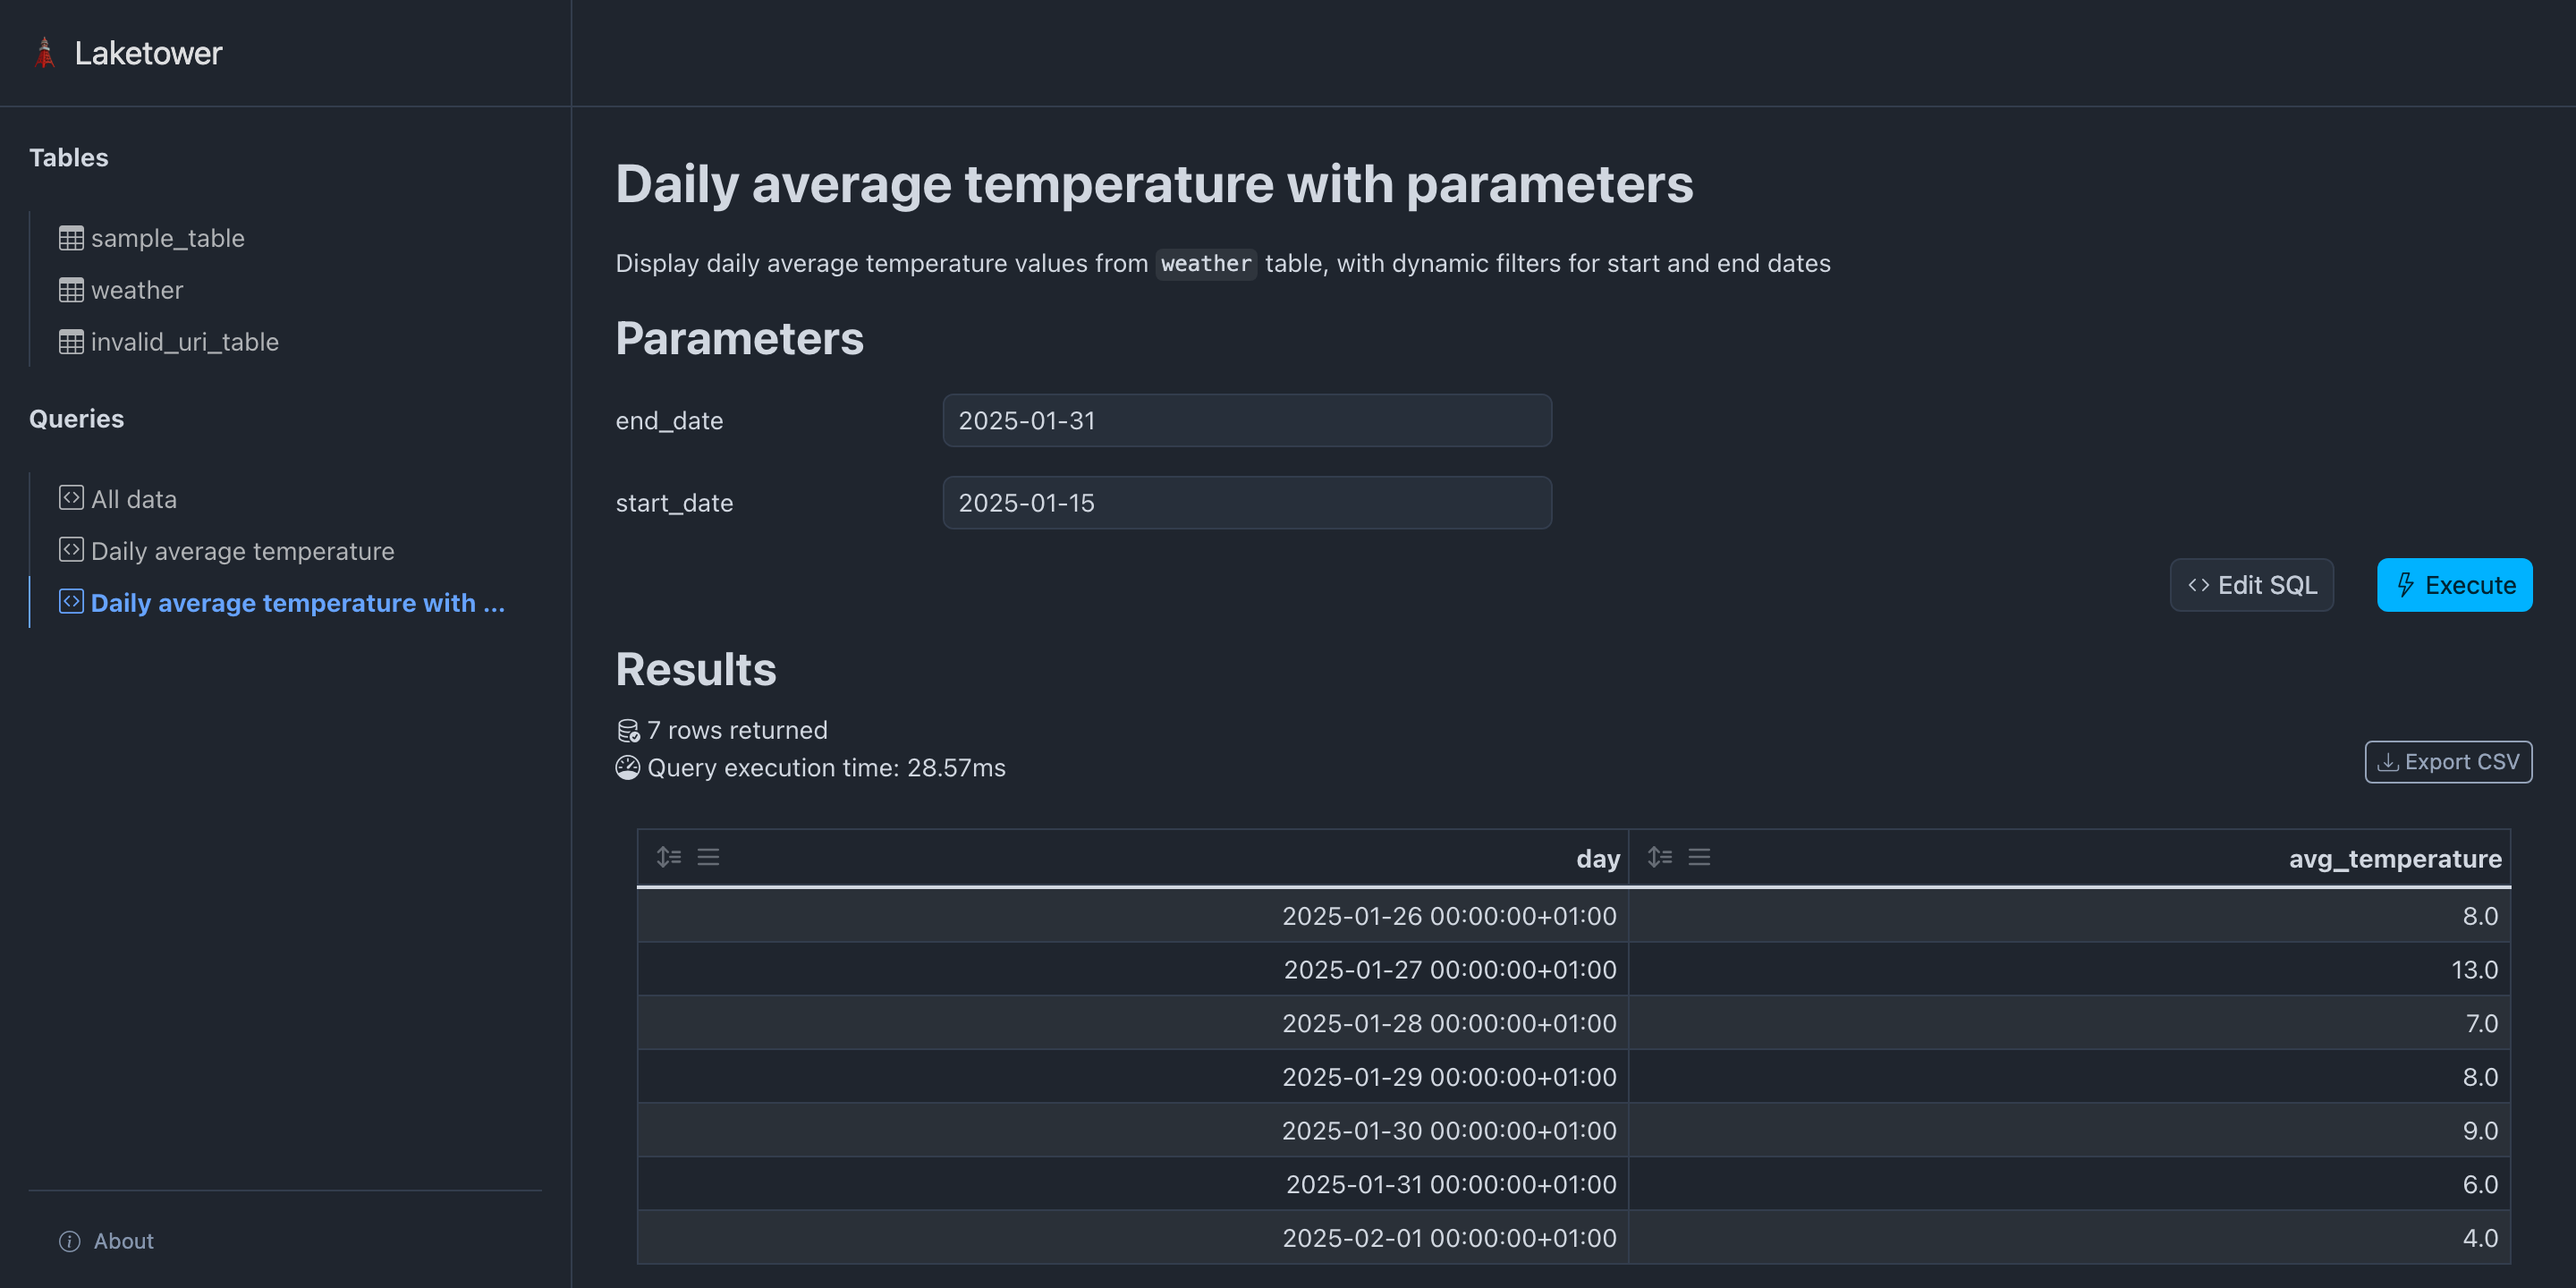
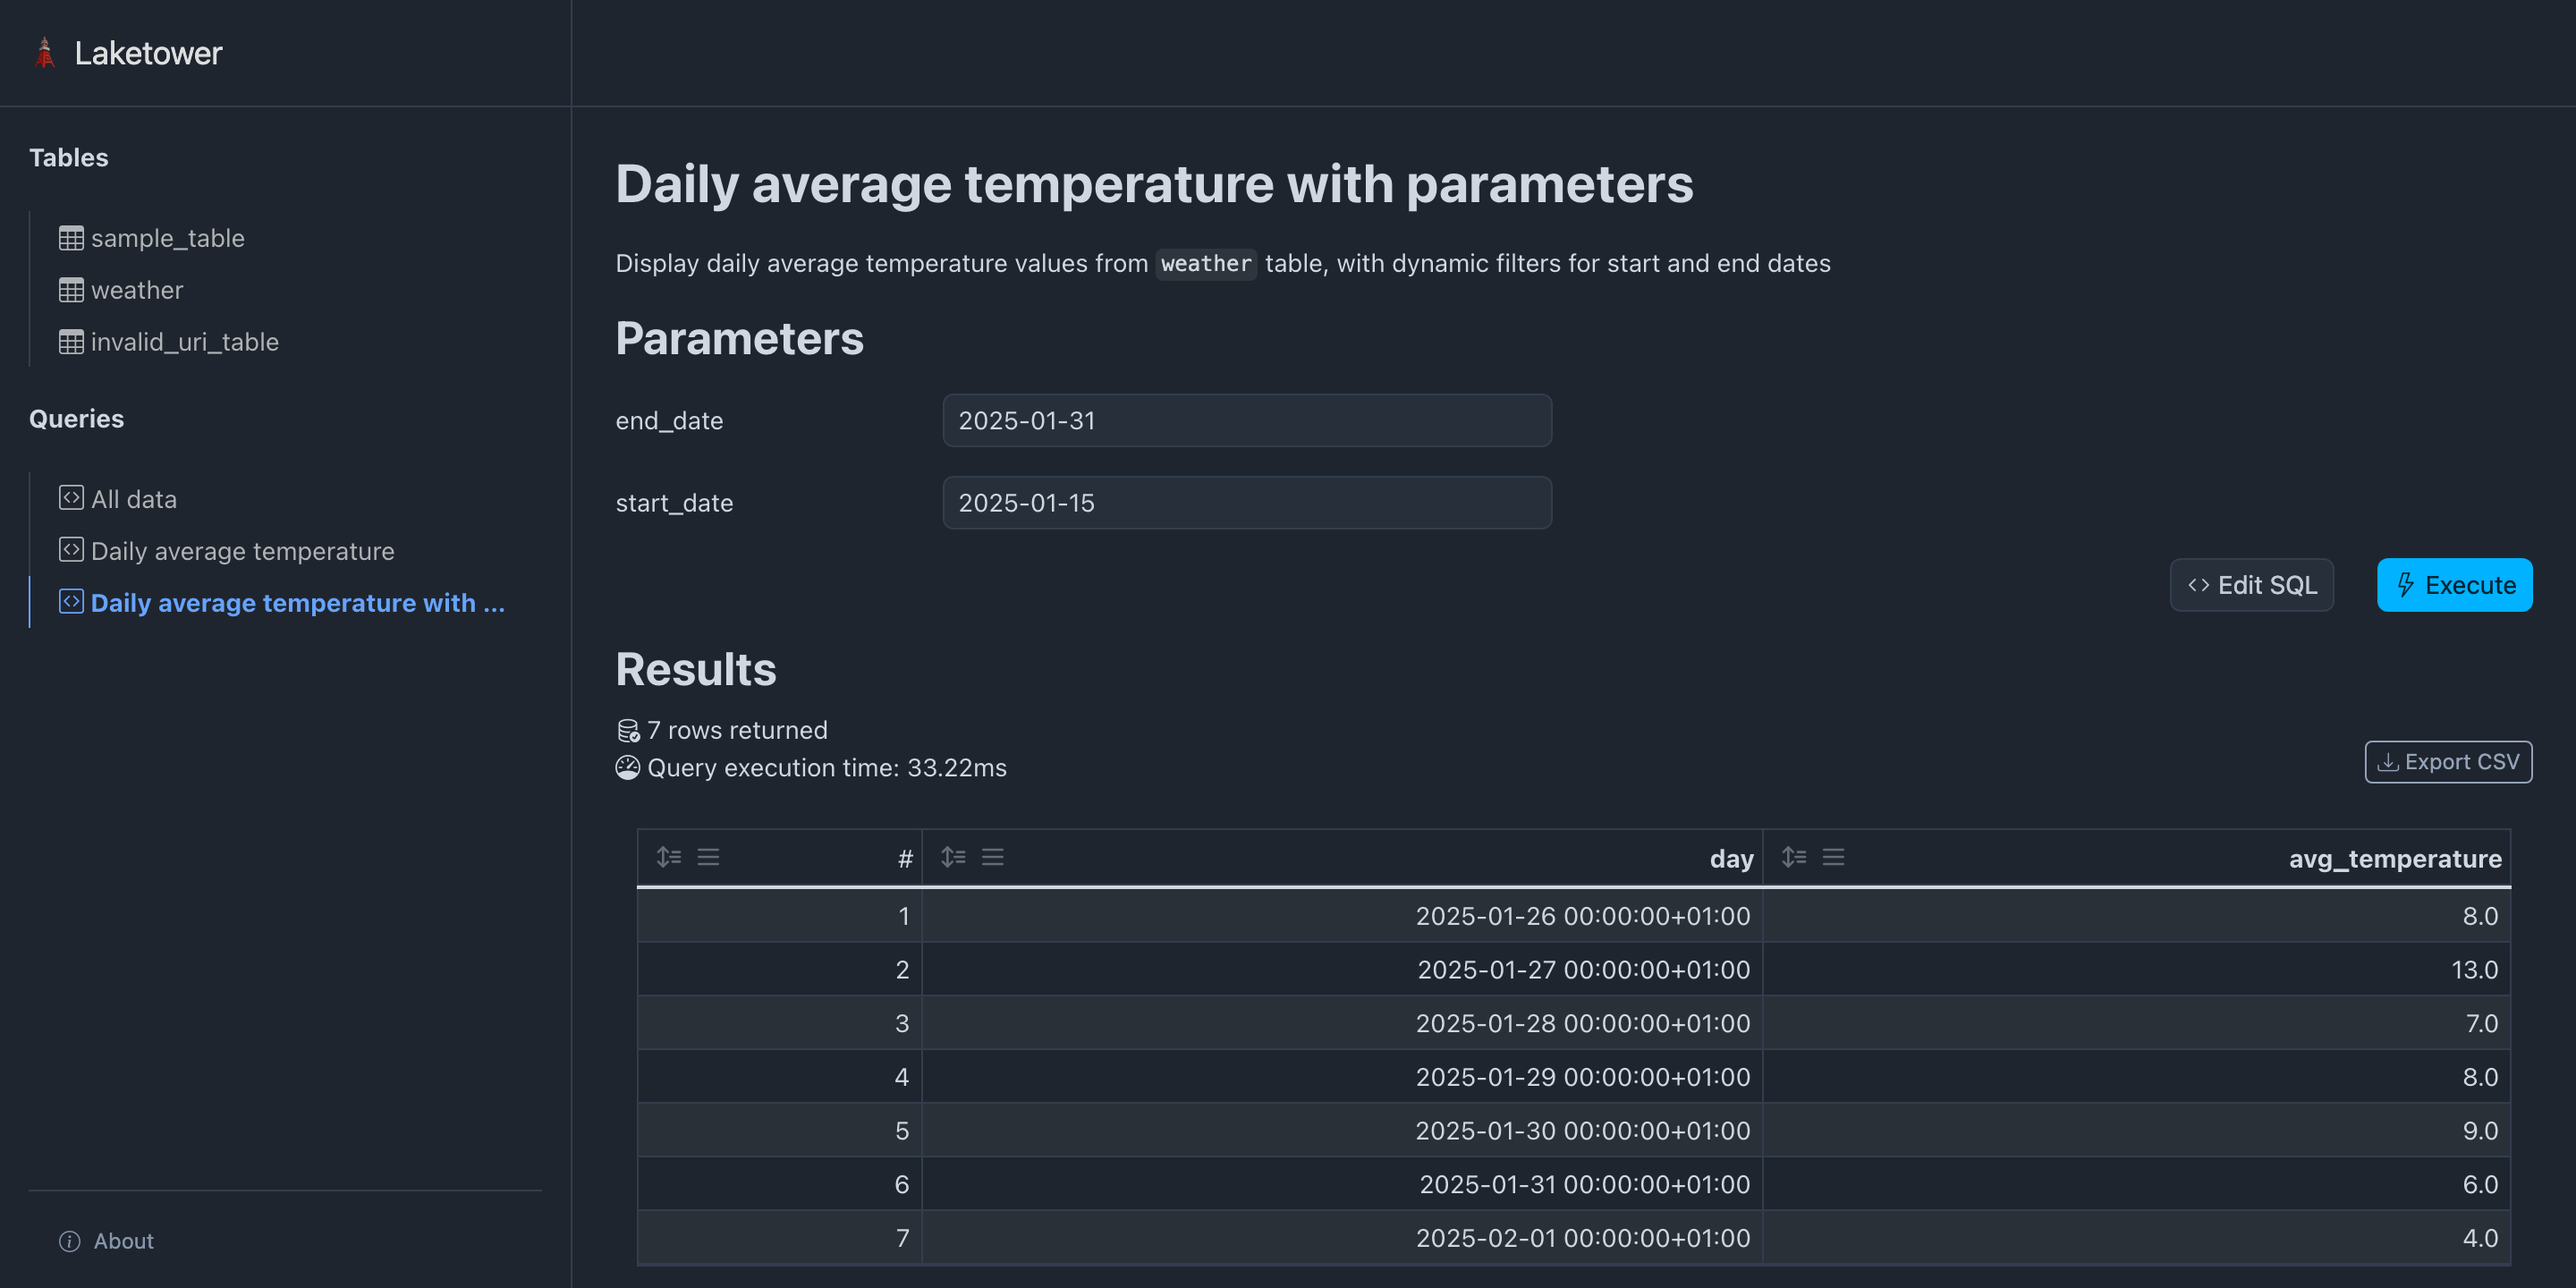
feat: add new `totals_row` query setting in YAML configuration

diff --git a/laketower/templates/queries/view.html b/laketower/templates/queries/view.html
@@ -68,6 +68,7 @@
       <table id="resultsTable" class="table table-sm table-bordered table-striped table-hover">
         <thead>
           <tr>
+            <td>#</td>
             {% for column in query_results.column_names %}
             <th>{{ column }}</th>
             {% endfor %}
@@ -76,12 +77,24 @@
         <tbody class="table-group-divider">
           {% for row in query_results.to_pylist() %}
           <tr>
+            <td>{{ loop.index }}</td>
             {% for column in query_results.column_names %}
             <td>{{ row[column] }}</td>
             {% endfor %}
           </tr>
           {% endfor %}
         </tbody>
+        {% if query_totals %}
+        <tfoot>
+          <tr>
+            <th>Total</th>
+            {% for column_name in query_totals.column_names %}
+            {% set value = query_totals.column(column_name)[0].as_py() %}
+            <th>{% if value is not none %}{{ value }}{% else %}-{% endif %}</th>
+            {% endfor %}
+          </tr>
+        </tfoot>
+        {% endif %}
       </table>
     </div>
     {% endif %}

diff --git a/laketower/static/datatables.js b/laketower/static/datatables.js
@@ -22,7 +22,6 @@ export function createDataTable(tableId, options = {}) {
         tableId,
         {
             searching: true,
-            scrollX: true,
             layout: {
                 topStart: null,
                 topEnd: null,
@@ -49,7 +48,9 @@ export function createDataTable(tableId, options = {}) {
             },
             order: [],
             paging: false,
+            scrollX: true,
             scrollY: '400px',
+            scrollCollapse: true,
         }
     )
 }

diff --git a/laketower/static/datatables.bundle.js b/laketower/static/datatables.bundle.js
@@ -27890,7 +27890,6 @@ var datatables = (function (exports) {
 	        tableId,
 	        {
 	            searching: true,
-	            scrollX: true,
 	            layout: {
 	                topStart: null,
 	                topEnd: null,
@@ -27917,7 +27916,9 @@ var datatables = (function (exports) {
 	            },
 	            order: [],
 	            paging: false,
+	            scrollX: true,
 	            scrollY: '400px',
+	            scrollCollapse: true,
 	        }
 	    )
 	}

diff --git a/laketower/cli.py b/laketower/cli.py
@@ -17,6 +17,7 @@ from laketower.config import load_yaml_config
 from laketower.tables import (
     ImportFileFormatEnum,
     ImportModeEnum,
+    compute_totals,
     execute_query,
     extract_query_parameter_names,
     generate_table_query,
@@ -314,10 +315,24 @@ def view_query(
             caption_justify="left",
             caption_style=rich.style.Style(dim=True),
         )
+        out.add_column("#")
         for column in results.column_names:
             out.add_column(column)
-        for row_dict in results.to_pylist():
-            out.add_row(*[str(row_dict[col]) for col in results.column_names])
+        for idx, row_dict in enumerate(results.to_pylist(), start=1):
+            out.add_row(str(idx), *[str(row_dict[col]) for col in results.column_names])
+
+        if query_config.totals_row:
+            totals = compute_totals(results)
+            totals_dict = totals.to_pylist()[0]
+            out.add_section()
+            out.add_row(
+                "Total",
+                *[
+                    str(totals_dict[col]) if totals_dict[col] is not None else "-"
+                    for col in results.column_names
+                ],
+                style="bold",
+            )
     except ValueError as e:
         out = rich.panel.Panel.fit(f"[red]{e}")
 

diff --git a/laketower/web.py b/laketower/web.py
@@ -20,6 +20,7 @@ from laketower.tables import (
     DEFAULT_LIMIT,
     ImportFileFormatEnum,
     ImportModeEnum,
+    compute_totals,
     execute_query,
     extract_query_parameter_names,
     generate_table_statistics_query,
@@ -420,11 +421,14 @@ def get_query_view(request: Request, query_id: str) -> Response:
         results = results.slice(
             0, min(results.num_rows, config.settings.max_query_rows)
         )
+
+        totals = compute_totals(results) if query_config.totals_row else None
         error = None
     except ValueError as e:
         error = {"message": str(e)}
         results = None
         truncated = False
+        totals = None
         execution_time_ms = None
 
     return templates.TemplateResponse(
@@ -436,6 +440,7 @@ def get_query_view(request: Request, query_id: str) -> Response:
             "queries": config.queries,
             "query": query_config,
             "query_results": results,
+            "query_totals": totals,
             "truncated_results": truncated,
             "execution_time_ms": execution_time_ms,
             "sql_params": sql_params,

diff --git a/laketower/tables.py b/laketower/tables.py
@@ -5,6 +5,7 @@ from typing import Any, BinaryIO, Protocol, TextIO
 import deltalake
 import duckdb
 import pyarrow as pa
+import pyarrow.compute as pc
 import pyarrow.csv as csv
 import pyarrow.dataset as padataset
 import pydantic
@@ -320,6 +321,18 @@ def execute_query(
         return conn.execute(sql_query, parameters=sql_params).fetch_arrow_table()
     except duckdb.Error as e:
         raise ValueError(f"Error: {e}") from e
+
+
+def compute_totals(results: pa.Table) -> pa.RecordBatch:
+    return pa.record_batch(
+        [
+            pa.array([pc.sum(results.column(i))])
+            if pa.types.is_integer(field.type) or pa.types.is_floating(field.type)
+            else pa.array([None], type=field.type)
+            for i, field in enumerate(results.schema)
+        ],
+        schema=results.schema,
+    )
 
 
 def import_file_to_table(

diff --git a/tests/test_web.py b/tests/test_web.py
@@ -843,6 +843,8 @@ def test_queries_view(client: TestClient, sample_config: dict[str, Any]) -> None
     all_th = [th.get_text().strip() for th in soup.find_all("th")]
     assert all(col in all_th for col in {"day", "avg_temperature"})
 
+    assert soup.find("tfoot") is None
+
 
 def test_queries_view_max_row_limit(
     monkeypatch: pytest.MonkeyPatch,
@@ -925,6 +927,11 @@ def test_queries_view_parameters(
         assert soup.find(
             "input", attrs={"name": param_name, "value": param_data["default"]}
         )
+
+    assert (tfoot := soup.find("tfoot"))
+    totals_row = tfoot.find("tr")
+    assert totals_row
+    assert totals_row.find("th", string="Total")  # type: ignore[call-overload]
 
 
 def test_queries_view_invalid(

diff --git a/tests/test_tables.py b/tests/test_tables.py
@@ -1,6 +1,7 @@
 from typing import Any
 from unittest import mock
 
+import pyarrow as pa
 import pytest
 
 from laketower import config, tables
@@ -191,3 +192,14 @@ def test_limit_query(sql_query: str, max_limit: int, expected: str) -> None:
 def test_limit_query_invalid_sql(sql: str) -> None:
     with pytest.raises(ValueError):
         tables.limit_query(sql, 1_000)
+
+
+def test_compute_totals() -> None:
+    data = pa.table({"col1": ["cat1", "cat2", "cat3"], "col2": [1, 2, 3]})
+
+    totals = tables.compute_totals(data)
+
+    assert totals.num_rows == 1
+    assert totals.schema == data.schema
+    assert totals["col1"][0].as_py() is None
+    assert totals["col2"][0].as_py() == 6

diff --git a/tests/conftest.py b/tests/conftest.py
@@ -69,6 +69,7 @@ def sample_config(delta_table: deltalake.DeltaTable) -> dict[str, Any]:
                 "name": "daily_average_temperature_params",
                 "title": "Daily average temperature with parameters",
                 "description": "Display daily average temperature values from `weather` table, with dynamic filters for start and end dates",
+                "totals_row": True,
                 "parameters": {
                     "start_date": {"default": "2025-01-01"},
                     "end_date": {"default": "2025-01-31"},

diff --git a/tests/test_cli.py b/tests/test_cli.py
@@ -913,6 +913,7 @@ def test_queries_view(
     assert " rows returned" in output
     assert "Execution time: " in output
     assert all(col in output for col in {"day", "avg_temperature"})
+    assert "Total" not in output
 
 
 def test_queries_view_max_row_limit(
@@ -1003,6 +1004,7 @@ def test_queries_view_parameters(
     captured = capsys.readouterr()
     output = captured.out
     assert all(col in output for col in {"day", "avg_temperature"})
+    assert "Total" in output
 
 
 def test_queries_view_invalid_sql(

diff --git a/tests/test_config.py b/tests/test_config.py
@@ -30,6 +30,7 @@ def test_load_yaml_config(
         assert query.name == expected_query["name"]
         assert query.title == expected_query["title"]
         assert query.description == expected_query.get("description")
+        assert query.totals_row == expected_query.get("totals_row", False)
         assert query.sql == expected_query["sql"]
 
 

diff --git a/laketower/config.py b/laketower/config.py
@@ -113,6 +113,7 @@ class ConfigQuery(pydantic.BaseModel):
     name: str
     title: str
     description: str | None = None
+    totals_row: bool = False
     parameters: dict[str, ConfigQueryParameter] = {}
     sql: str
 
